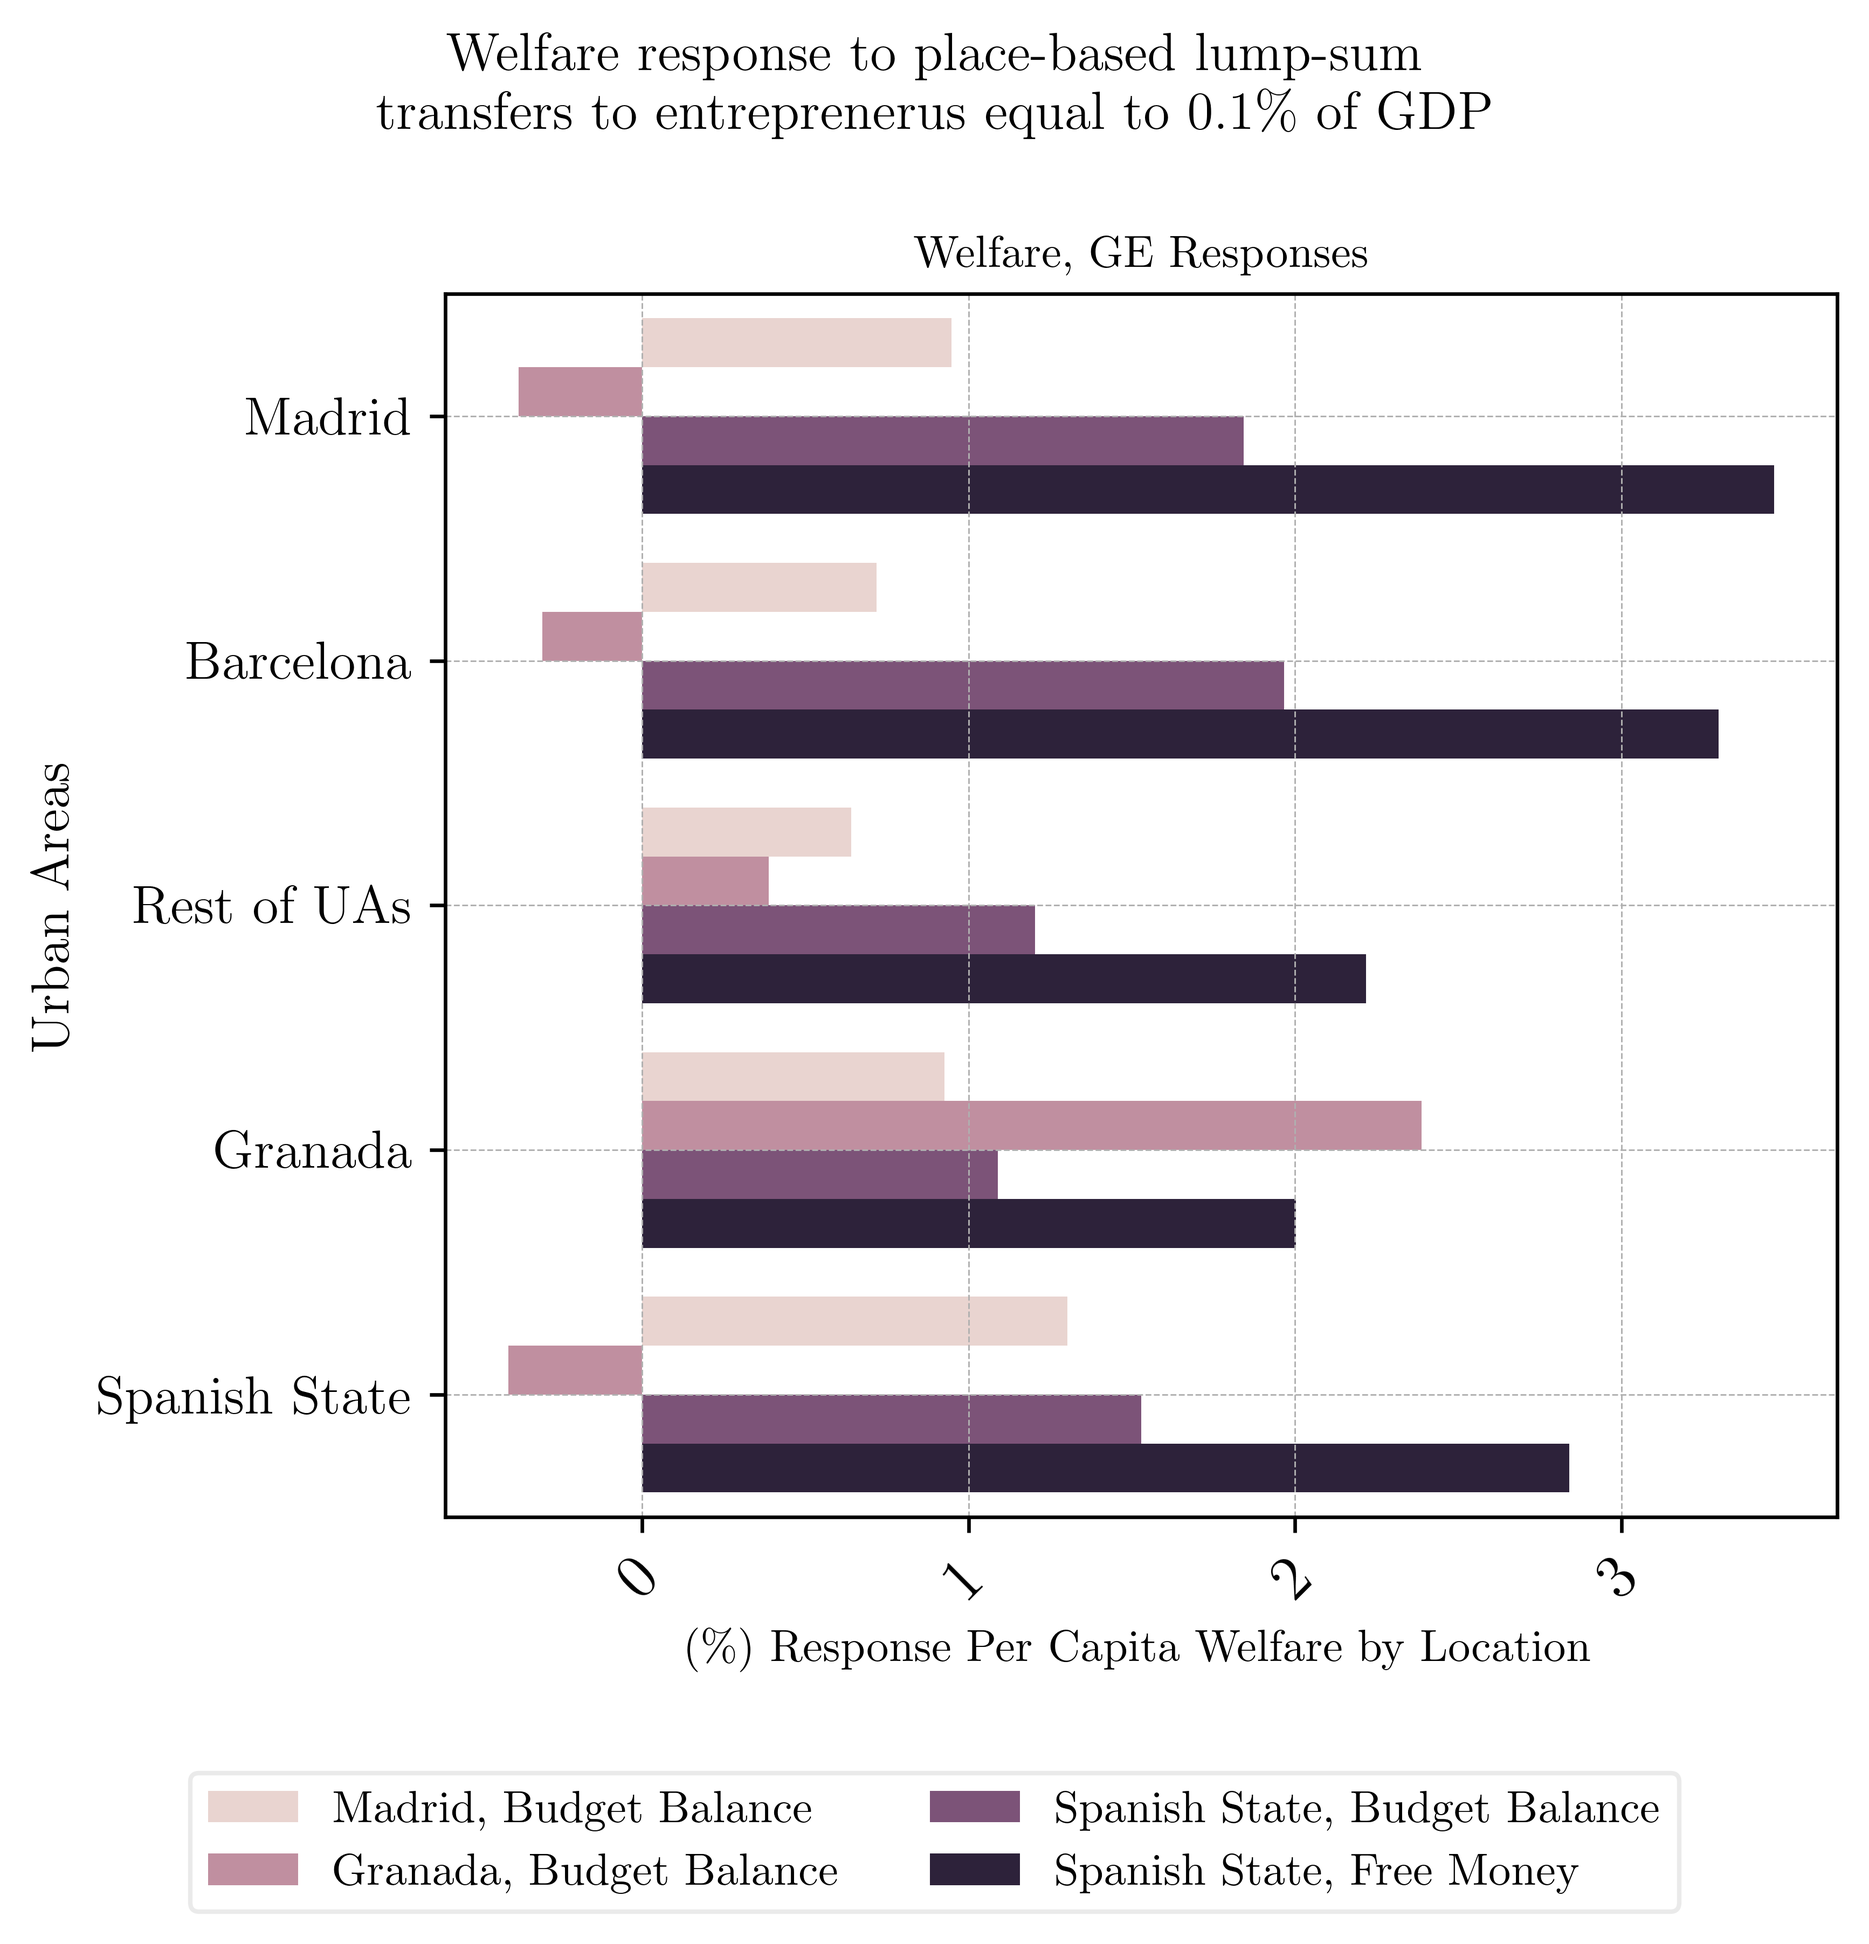
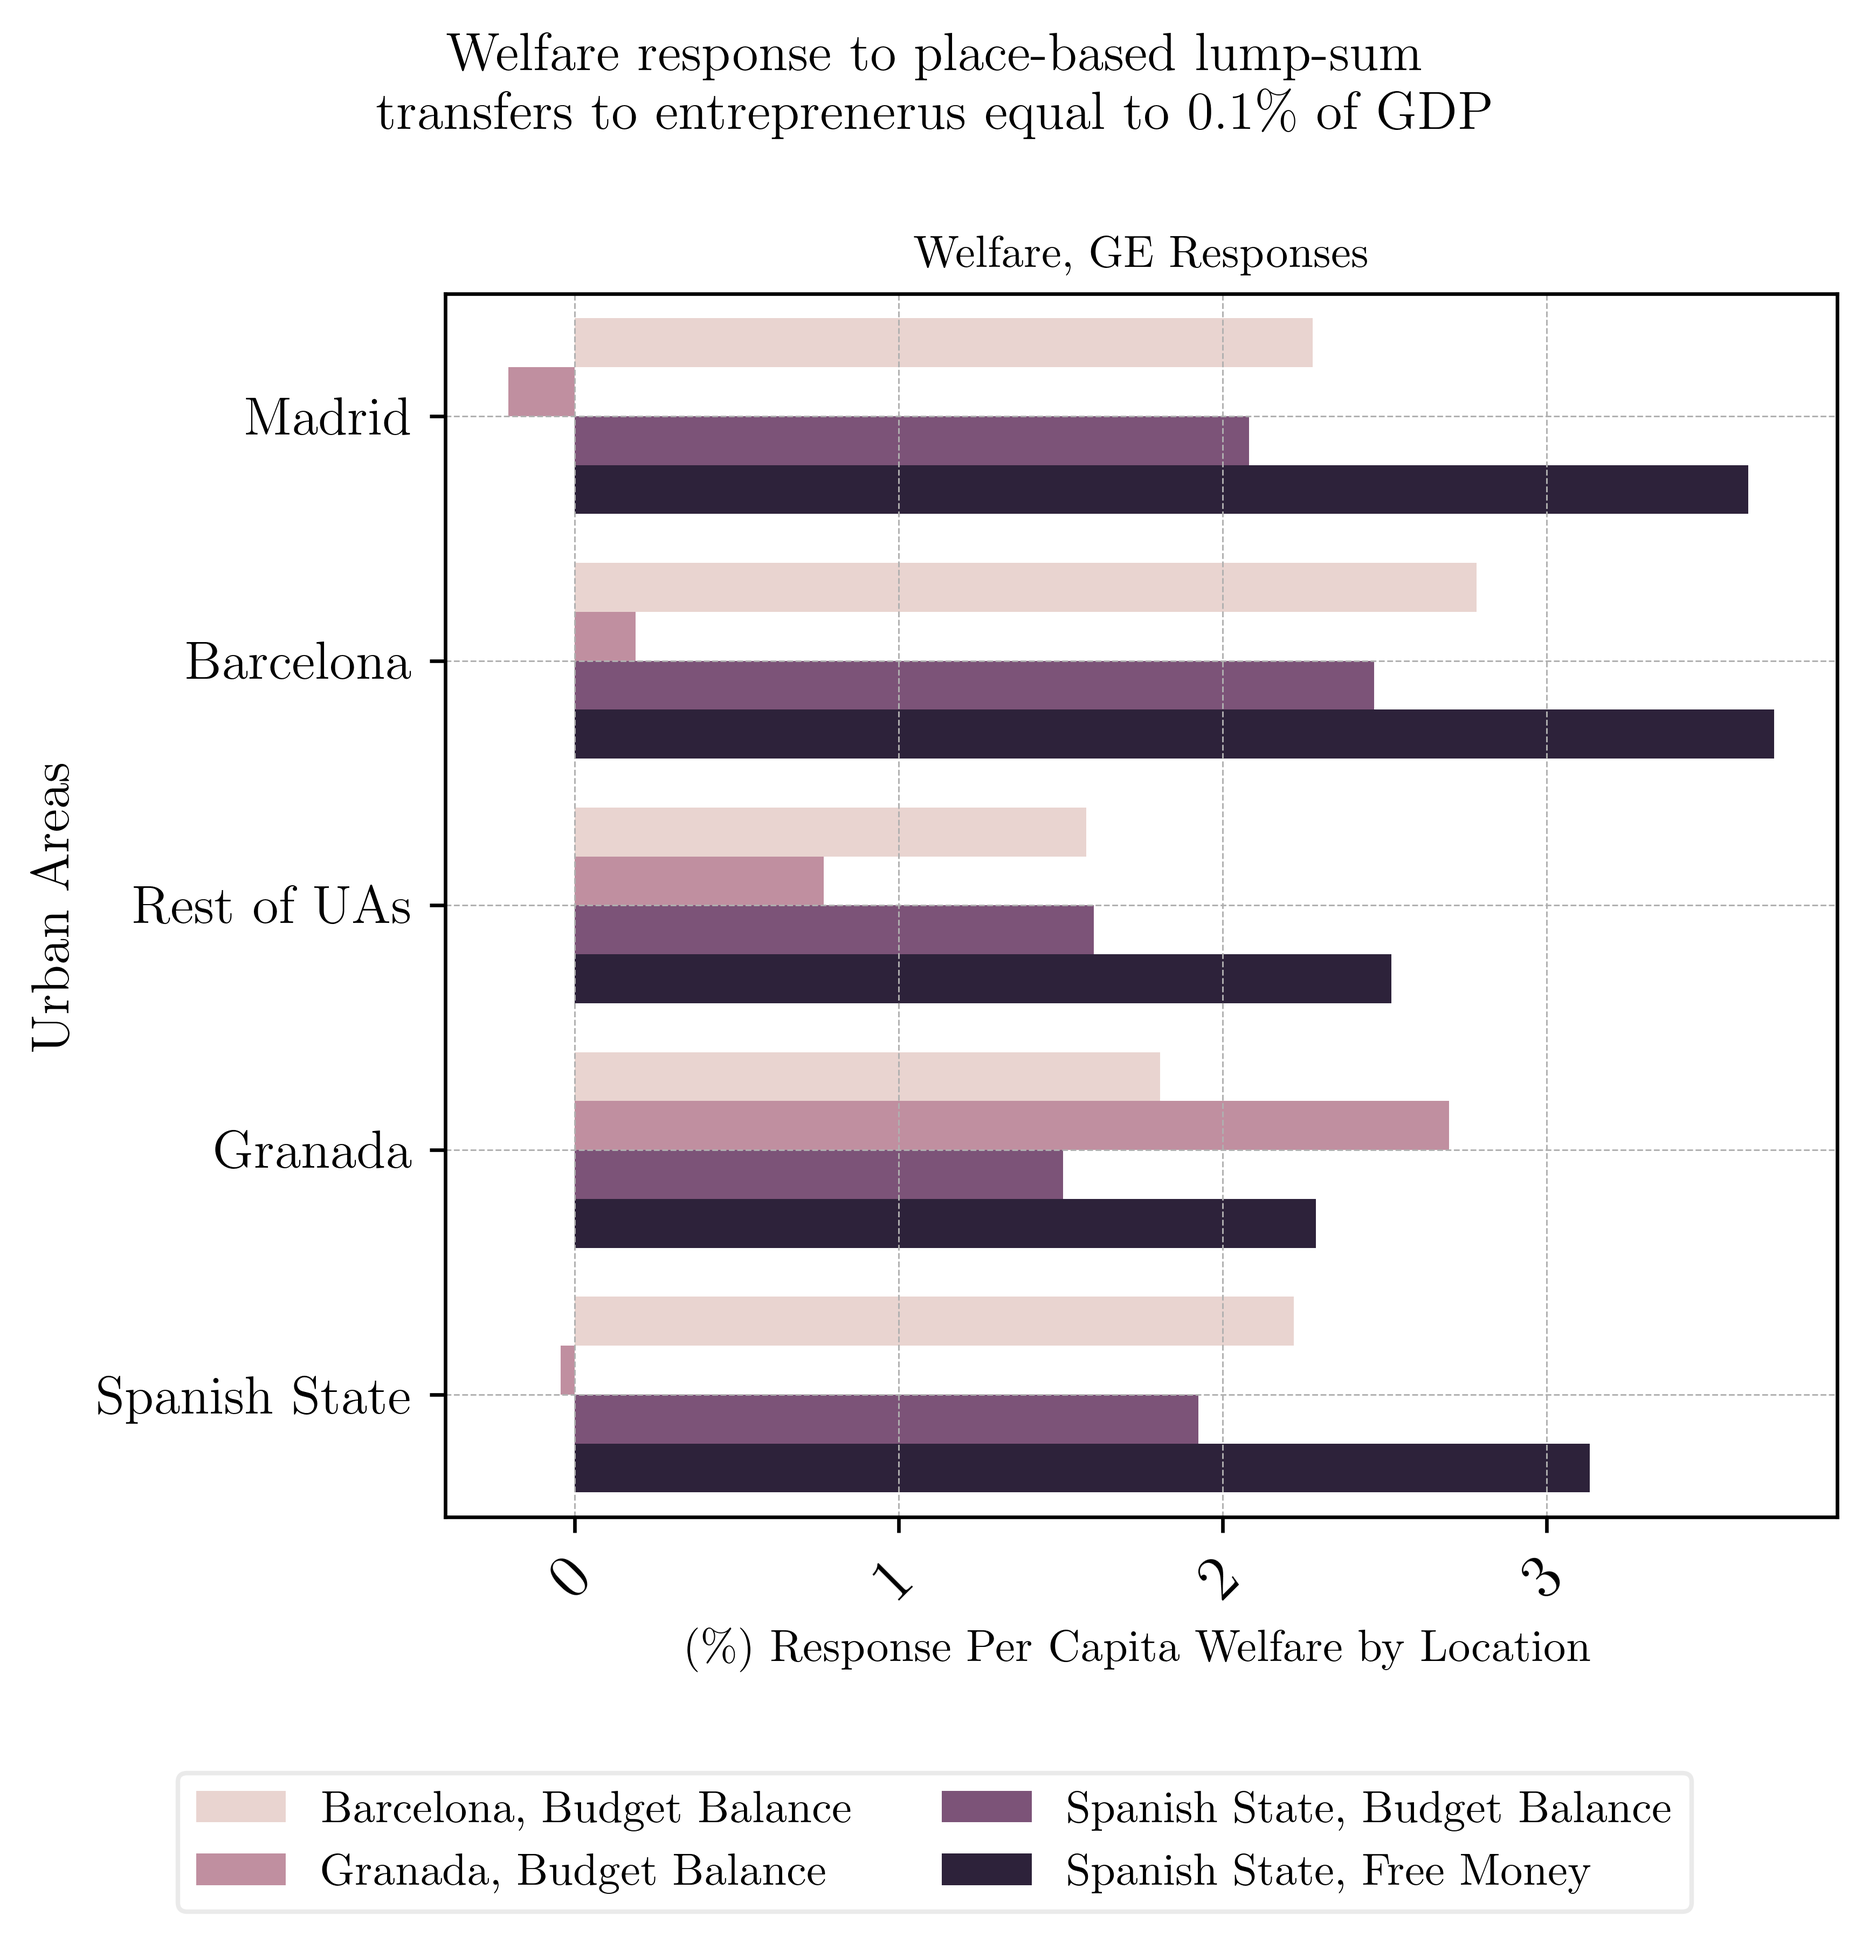
update

diff --git a/research/index.html b/research/index.html
@@ -127,7 +127,7 @@
                 <div class="figure-column">
                     <figure>
                         <img src="/img/webpage__transfersbenchmark_share_gdp.png" width="600" height="400"></img>
-                        <figcaption>Welfare responses in the calibrated model to place-based lump-sum entrepreneurial transfers in Madrid (large, productive), Granada (small, less productive) and the entire country.</figcaption>
+                        <figcaption>Welfare responses in the calibrated model to place-based lump-sum entrepreneurial transfers in Barcelona (large, productive), Granada (small, less productive) and the entire country.</figcaption>
                     </figure>
                 </div>
             </div>
